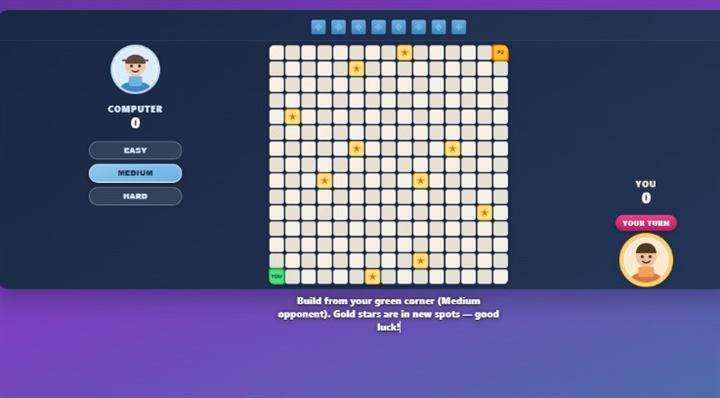
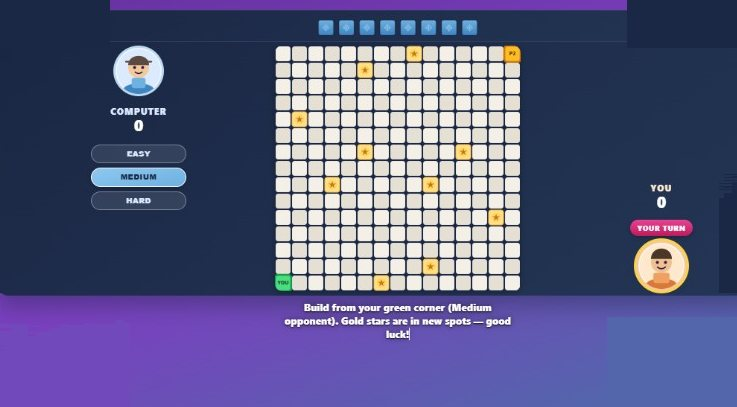
Cover faint LIVE/search ghosts in hero board corners.

diff --git a/site.css b/site.css
@@ -305,6 +305,9 @@ ul {
   width: min(96vw, 1120px, calc((100dvh - var(--nav-h) - 15.5rem) * 1.81));
   max-width: 100%;
   margin: 0 auto;
+  overflow: hidden;
+  border-radius: clamp(14px, 1.4vw, 22px);
+  background: #1a2845;
   animation: rise-in 0.85s var(--ease) 0.1s both;
 }
 
@@ -312,6 +315,9 @@ ul {
   width: 100%;
   height: auto;
   display: block;
+  /* Crop outer edge ghosts from the screenshot chrome */
+  transform: scale(1.035);
+  transform-origin: center;
   border-radius: clamp(14px, 1.4vw, 22px);
   border: 2px solid rgba(255, 248, 231, 0.28);
   box-shadow: 0 18px 40px rgba(20, 10, 40, 0.38);
@@ -705,6 +711,20 @@ ul {
   /* Center logo is enough on phones — hide top nav chrome */
   .site-nav {
     display: none;
+  }
+
+  /* Cover faint corner ghosts (LIVE / search residue) with page purple */
+  body::before {
+    content: "";
+    position: fixed;
+    inset: 0;
+    z-index: 80;
+    pointer-events: none;
+    background:
+      radial-gradient(ellipse 88px 88px at 0% 0%, #4a1f78 0%, #4a1f78 58%, transparent 72%),
+      radial-gradient(ellipse 88px 88px at 100% 0%, #4a1f78 0%, #4a1f78 58%, transparent 72%),
+      radial-gradient(ellipse 100px 100px at 0% 100%, #5c2d91 0%, #5c2d91 55%, transparent 74%),
+      radial-gradient(ellipse 100px 100px at 100% 100%, #5c2d91 0%, #5c2d91 55%, transparent 74%);
   }
 
   .hero {

diff --git a/index.html b/index.html
@@ -11,8 +11,8 @@
   <link rel="preconnect" href="https://fonts.gstatic.com" crossorigin>
   <link href="https://fonts.googleapis.com/css2?family=Figtree:wght@500;600;700&family=Syne:wght@700;800&display=swap" rel="stylesheet">
   <link rel="preload" as="image" href="/images/qwerty-header.png?v=319">
-  <link rel="preload" as="image" href="/images/hero-board.jpg">
-  <link rel="stylesheet" href="site.css?v=19">
+  <link rel="preload" as="image" href="/images/hero-board.jpg?v=20">
+  <link rel="stylesheet" href="site.css?v=20">
   <script>
     (function () {
       var q = location.search || '';
@@ -64,7 +64,7 @@
       </div>
       <figure class="hero-preview">
         <img
-          src="/images/hero-board.jpg"
+          src="/images/hero-board.jpg?v=20"
           width="720"
           height="398"
           alt="QWERTY game board with Computer and You beside the grid"
